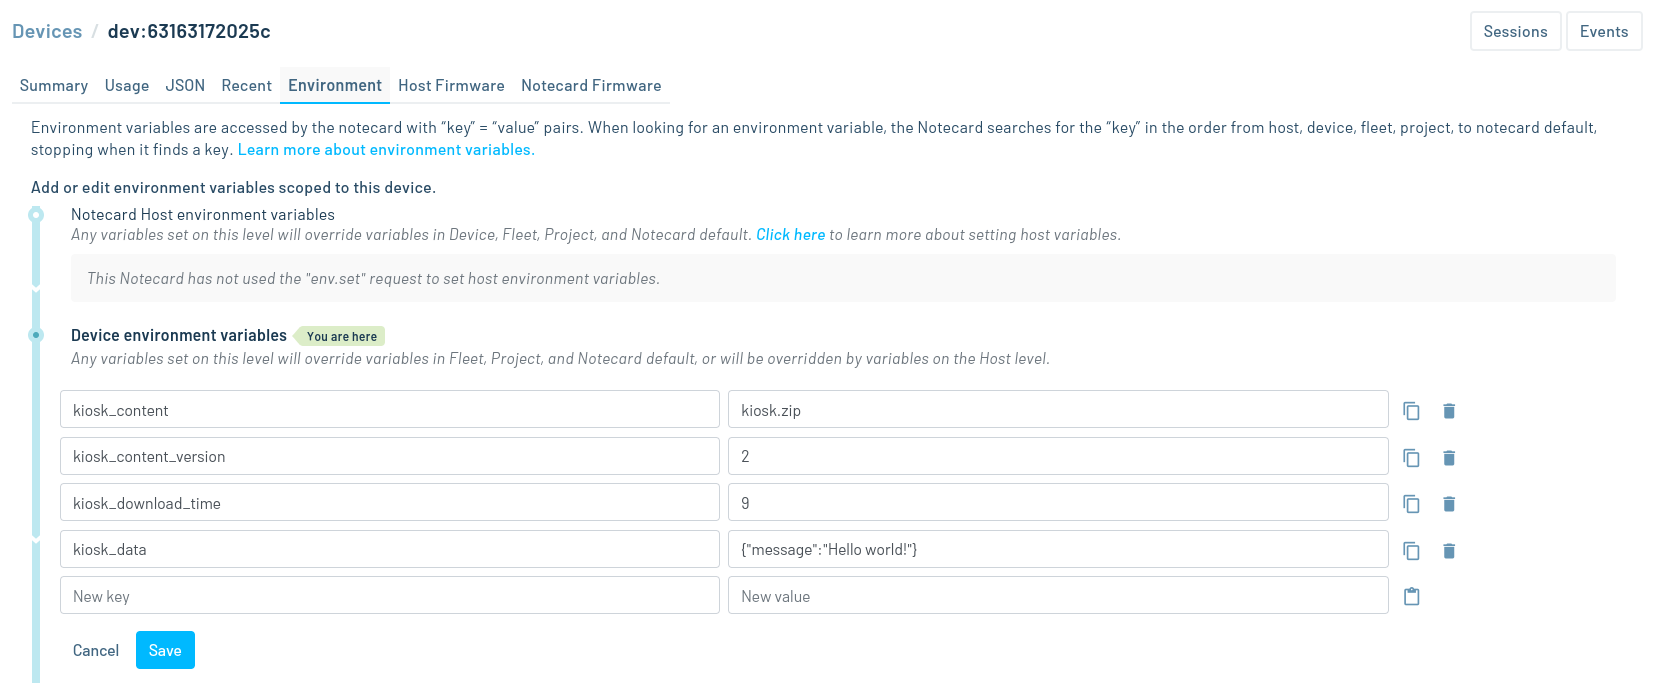
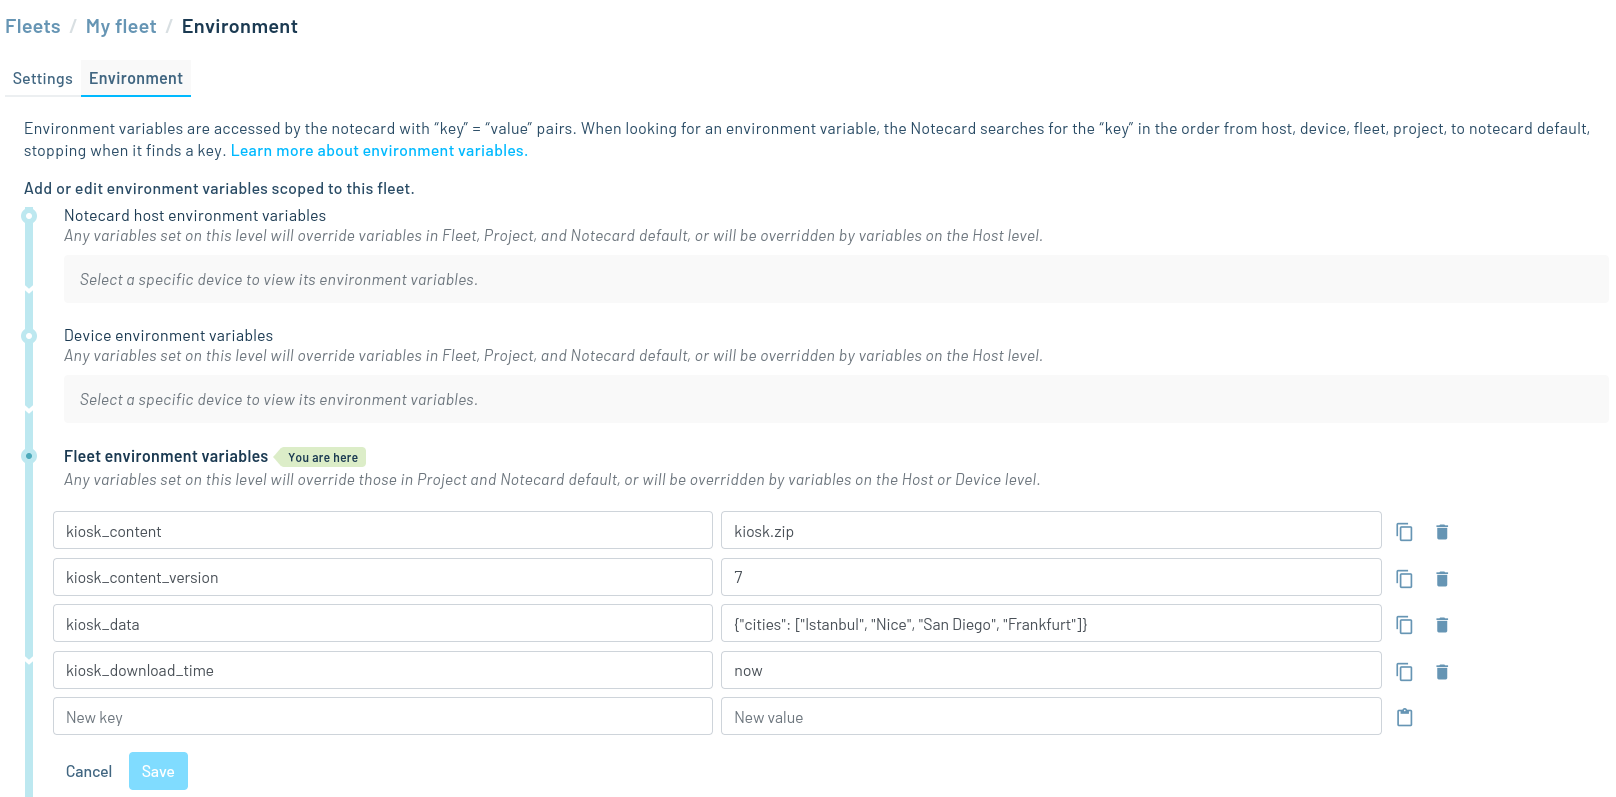
nf27: Address firmware and docs feedback.

diff --git a/27-cellular-connected-electronic-kiosk/README.md b/27-cellular-connected-electronic-kiosk/README.md
@@ -10,6 +10,7 @@ Download and run a kiosk application without an Internet connection, using a sim
       - [`kiosk_content`](#kiosk-content)
       - [`kiosk_content_version`](#kiosk-content-version)
       - [`kiosk_download_time`](#kiosk-download-time)
+      - [`kiosk_data`](#kiosk-data)
   - [microSd Card Setup](#microsd-card-setup)
   - [Hardware Setup](#hardware-setup)
     - [Notecard and Notecarrier](#notecard-and-notecarrier)
@@ -39,13 +40,13 @@ Sign up for a free account on [notehub.io](https://notehub.io) and [create a new
 
 ### Route
 
-Next, you need to create a [proxy route](https://dev.blues.io/notehub/notehub-walkthrough/#routing-data-with-notehub) in order to download the kiosk web app. The web app should be bundled in a .zip file. Unzipping the .zip file should produce, at minimum, a directory named `resources` with an HTML page to display named `index.htm`. Read [this guide](https://dev.blues.io/notecard/notecard-walkthrough/web-transactions/) to set up the route.
+Next, you need to create a [proxy route](https://dev.blues.io/notehub/notehub-walkthrough/#routing-data-with-notehub) in order to download the kiosk web app. The web app should be bundled in a .zip file and stored online somewhere (e.g. in an AWS S3 bucket). Unzipping the .zip file should produce, at minimum, a directory named `resources` with an HTML page to display named `index.htm`. Read [this guide](https://dev.blues.io/notecard/notecard-walkthrough/web-transactions/) to set up the route.
 
 ![Route config](images/route.png)
 
 ### Environment Variables
 
-There are 4 [environment variables](https://dev.blues.io/guides-and-tutorials/notecard-guides/understanding-environment-variables/) used in this project. You can set them by navigating to your Notehub project page > Devices > double-click your device > Environment:
+There are 4 [environment variables](https://dev.blues.io/guides-and-tutorials/notecard-guides/understanding-environment-variables/) used in this project. You can set them by navigating to your Notehub project page > select your fleet name from under Fleets > Settings > Environment:
 
 ![Environment variables](images/env_vars.png)
 
@@ -61,7 +62,7 @@ This is a version number for the file specified by `kiosk_content`. If you updat
 
 This variable specifies the hour of the day (using 24-hour time) when the Python script should check for updates to the `kiosk_content`. If, for example, `kiosk_download_time` is set to 9, the script will check for updates to the content at 9:00 AM local time. If the content file name or version has changed, the script will download and use the new content. If this variable is set to the special value `now`, any change to the content file name or version will cause an immediate download of the new content, instead of waiting for a specific hour of the day.
 
-#### `kisok_data`
+#### `kiosk_data`
 
 This can be set to any valid JSON object. It will then be stored in the `resources` directory alongside `index.htm` in the file `data.js`. The contents of `data.js` looks like this:
 
@@ -75,7 +76,7 @@ For example, if you set `kiosk_data` to `{"message":"Hello world!"}`, `data.js` 
 var data = {"message":"Hello world!"}
 ````
 
-Your web application can then access and use this data however you want. In this way, `kiosk_data` acts as a way of passing dynamic data to the web app without triggering a full download of the .zip file.
+Your web application can then access and use this data however you want. In this way, `kiosk_data` acts as a way of passing dynamic data to the web app without needing to modify the contents of the .zip file and re-download the whole thing.
 
 ## microSD Card Setup
 
@@ -95,11 +96,11 @@ To connect the Notecard and Pi Hat to the Pi, follow [the section "Connect Your 
 
 To put together the Pi, display, and case, you will follow [this documentation from Smarti Pi](https://cdn.shopify.com/s/files/1/0793/8029/files/touch_pro_assembly_instructions.pdf?v=1640377735), with a few additional steps to accommodate the Notecard hardware.
 
-At Step 7, make sure to install the Notecarrier Pi Hat with the Notecard onto the Pi's headers:
+At Step 7, make sure to install the Notecarrier Pi Hat with the Notecard onto the Pi's headers (don't forget to attach the antenna to the Notecard as well):
 
 ![Pi Hat on Pi's headers](images/pi_hat.jpg)
 
-Everything should fit, even with the standoffs attached to the Pi. You will also need to use the micro USB cable to connect the Notecarrier's micro USB port to one of the Pi's USB ports:
+Everything should fit, even with the standoffs attached to the Pi. If you want to manually send commands to the Notecard for any reason (e.g. debugging) via the [Notecard CLI](https://dev.blues.io/tools-and-sdks/notecard-cli/), you will also need to use the micro USB cable to connect the Notecarrier's micro USB port to one of the Pi's USB ports:
 
 ![Notecarrier USB connection](images/notecarrier_usb_connection.jpg)
 
@@ -119,7 +120,9 @@ Plug the USB-C power supply into the exposed USB-C port on the case and let the 
 
 ## Notecard Firmware
 
-The Notecard should use [firmware version 5.1.1](https://dev.blues.io/notecard/notecard-firmware-updates/#v5-1-1-april-5th-2023) or higher. The simplest way to update firmware is to do an [over-the-air update](https://dev.blues.io/notecard/notecard-firmware-updates/#ota-dfu-with-notehub).
+The Notecard should use [firmware version 5.1.1](https://dev.blues.io/notecard/notecard-firmware-updates/#v5-1-1-april-5th-2023) or higher. The simplest way to update firmware is to do an [over-the-air (OTA) update](https://dev.blues.io/notecard/notecard-firmware-updates/#ota-dfu-with-notehub) via Notehub.
+
+Please note: Your [Notecard will need to be assigned to your Notehub project](https://dev.blues.io/quickstart/notecard-quickstart/notecard-and-notecarrier-pi/#set-up-notecard) to update its firmware OTA.
 
 ## Kiosk Software
 
